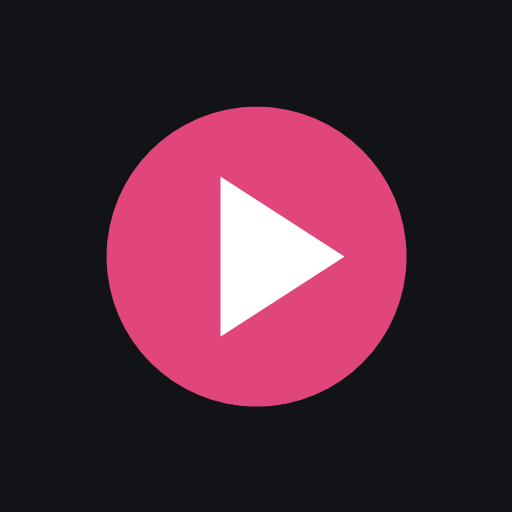
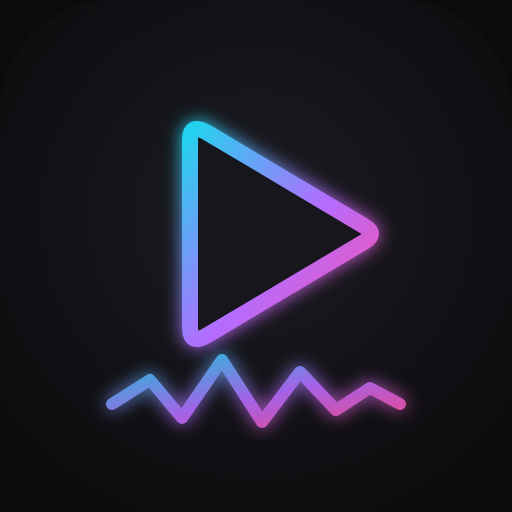
2.0: neues App-Symbol im Neon-Stil (Play mit Cyan-Pink-Rand und Script-Verlauf)

diff --git a/public/index.html b/public/index.html
@@ -4,7 +4,7 @@
   <meta charset="utf-8">
   <meta name="viewport" content="width=device-width, initial-scale=1, viewport-fit=cover">
   <meta name="robots" content="noindex, nofollow">
-  <meta name="theme-color" content="#111317">
+  <meta name="theme-color" content="#0b0b0d">
   <meta name="mobile-web-app-capable" content="yes">
   <meta name="apple-mobile-web-app-capable" content="yes">
   <meta name="apple-mobile-web-app-status-bar-style" content="black-translucent">
